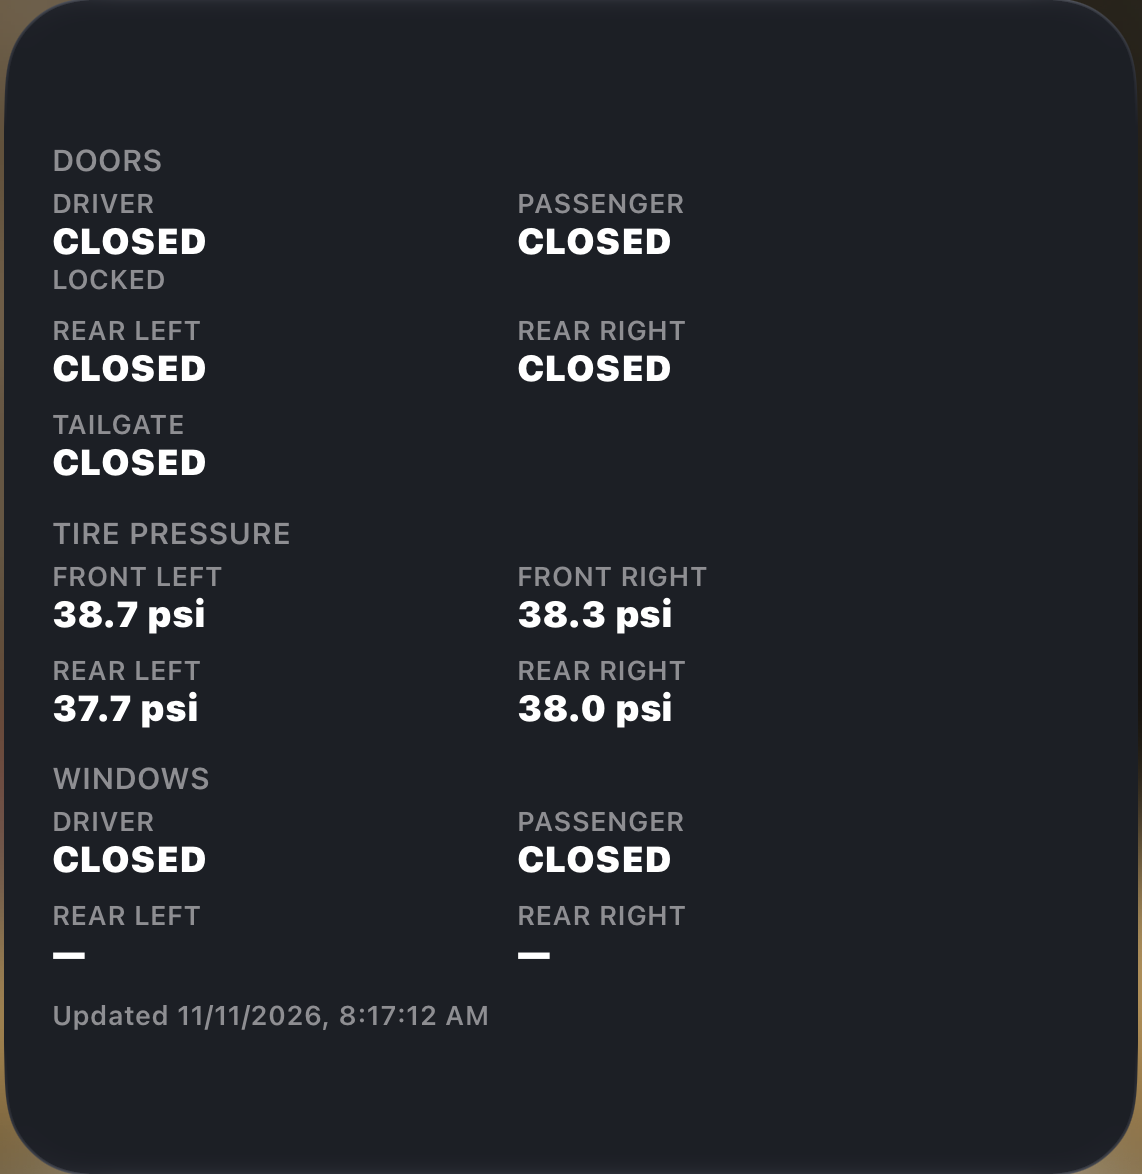
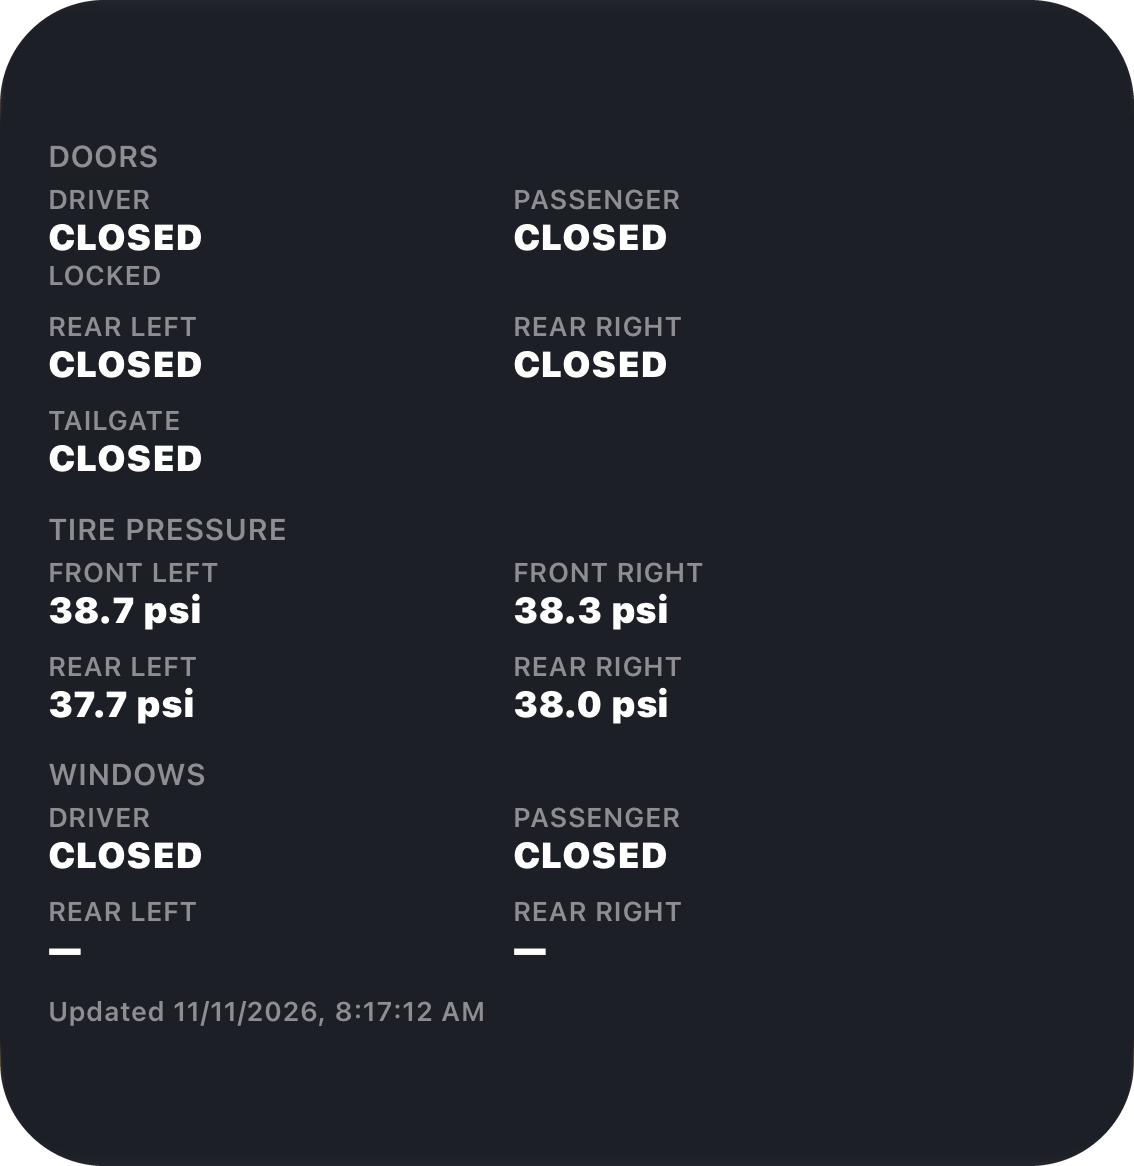
Remove the padding halo and mask screenshot corners with real alpha
Two bugs in the previous crop, both visible in a full-width browser:

1. The widget's edge is a sharp ~1px transition, not an anti-aliased
   gradient, so the outward PAD=4 landed squarely in solid
   background color on every side -- a visible gold-ish border
   framing every screenshot instead of a tiny margin.
2. The remaining corner triangles (inherent to bounding-box-cropping
   a rounded rect) were left as solid background color rather than
   masked out.

Dropped the outward pad entirely (crop to the exact matched bounds)
and added a real rounded-corner alpha mask, radius measured per
image from the same color match used for cropping, drawn at 4x and
downsampled for anti-aliased edges. Corners are now transparent
instead of a visible triangle, and the setup page's own CSS
border/border-radius on the gallery (now redundant and mismatched
with the image's true shape) is removed.

diff --git a/docs/index.html b/docs/index.html
@@ -57,7 +57,7 @@
   .badge:hover { border-color: var(--accent); color: var(--text); }
   .cta-row { display: flex; gap: 10px; justify-content: center; flex-wrap: wrap; margin-top: 22px; }
   .gallery { display: flex; gap: 14px; justify-content: center; flex-wrap: wrap; margin-top: 36px; }
-  .gallery img { max-width: 260px; width: 100%; height: auto; border-radius: 8px; border: 1px solid var(--border); }
+  .gallery img { max-width: 260px; width: 100%; height: auto; }
   .btn {
     display: inline-flex; align-items: center; gap: 8px;
     padding: 11px 20px; border-radius: var(--radius); font-size: 15px; font-weight: 600;
